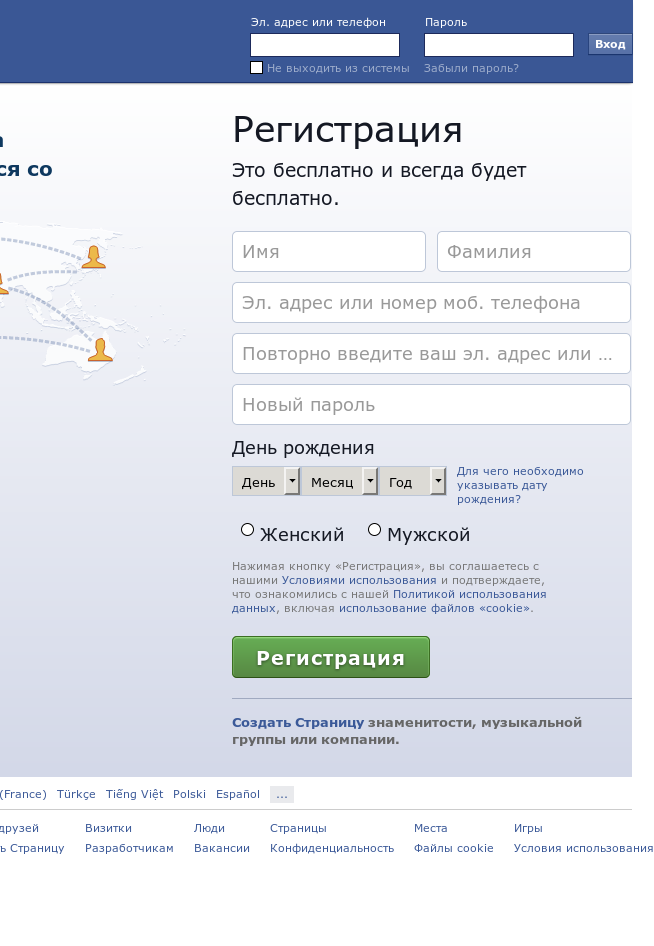
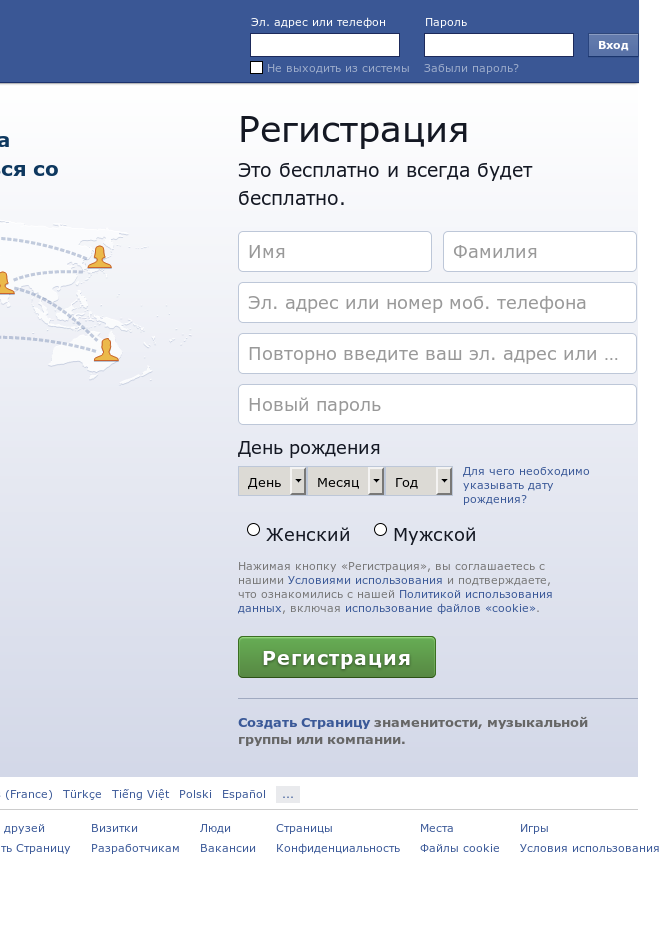
:repeat: test sh

diff --git a/slimer_screen.js b/slimer_screen.js
@@ -1,8 +1,9 @@
 
         var page = require('webpage').create();
-        page.open('http://wbtech.pro/', function (status) {
-            page.viewportSize = { width:1920, height:768 };
-            page.render('img/slimerjs10/wbtech.pro-1920px.png');
+        page.settings.userAgent = 'Mozilla/5.0 (X11; Linux x86_64) Gecko/20100101 Firefox/36.0';
+        page.open('http://google.com/', function (status) {
+            page.viewportSize = { width:780, height:768 };
+            page.render('img/slimerjs/google.com-780px.png');
             page.close();
             slimer.exit();
         });

diff --git a/slimerjs_base.py b/slimerjs_base.py
@@ -26,8 +26,7 @@ def vdisplay_test_browser(path, url, res, save_as, none_2):
     display_params = dict(visible=0, size=(1024, 768), backend='xvfb')
     make_param(url, res, save_as)
     with Display(**display_params):
-        res = os.system('{path} {script} --ssl-protocol=any'.format(path=path, script=script_path))
-        # res = subprocess.check_call([path, script_path, '--ssl-protocol=any'])
+        res = subprocess.check_call([path, script_path, '--ssl-protocol=any'])
     assert res == 0
 
 def slimerjs_test_browser(name):
